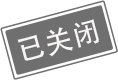
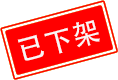
update

diff --git a/pages/myself/myself.js b/pages/myself/myself.js
@@ -12,11 +12,13 @@ Page({
     totalPrice: 0,
     totalGoods: '',
     publish: '',
+    totalReview: '',
     saled: '',
     nickName: '',
     avatarUrl: '',
-    tabIndex: 0,
+    tabIndex: 10,
     height: '',
+    status: '',
   },
 
   /**
@@ -27,10 +29,17 @@ Page({
 
     const containerHeight = await this.getHeight('#container');
     const wrapHeight = await this.getHeight('#wrap');
-    console.log(containerHeight, wrapHeight);
+
     this.setData({
       height: containerHeight - wrapHeight,
     });
+
+    const { status } = options;
+    if (status) {
+      this.setData({
+        status: status,
+      });
+    }
   },
 
   getHeight: function(id) {
@@ -52,7 +61,7 @@ Page({
   /**
    * 生命周期函数--监听页面显示
    */
-  onShow: function() {
+  onShow: async function() {
     // 已登录，直接获取数据
     if (app.globalData.hasLogined) {
       const { nickName, avatarUrl, gender } = app.globalData.userInfo;
@@ -61,11 +70,17 @@ Page({
         avatarUrl: avatarUrl,
         gender: gender,
         hasLogined: app.globalData.hasLogined,
-        tabIndex: 0,
+        tabIndex: 10,
       });
 
-      this.getData();
-      return;
+      await this.getData();
+
+      // 发布页跳转过来，需显示待审核列表面
+      if (this.data.status) {
+        this.changeTab({
+          currentTarget: { dataset: { status: 0 } },
+        });
+      }
     }
   },
 
@@ -166,38 +181,48 @@ Page({
     const list = [].concat(this.data.totalList);
 
     this.setData({
-      list: status === 0 ? list : list.filter(item => item.status === status),
+      list: status === 10 ? list : list.filter(item => item.status === status),
       tabIndex: Number(status),
     });
   },
   // 获取数据
   getData() {
     wx.showLoading();
-    util.request
+    return util.request
       .post('/koa-api/product/productByUser', { status: 0, ownerId: JSON.parse(wx.getStorageSync('token')).userId })
       .then(data => {
         if (data.length) {
+          let totalReview = 0;
           let totalPrice = 0;
           let publish = 0;
           let saled = 0;
           data.forEach(item => {
             item.img_list = item.img_list && item.img_list.split(',')[0];
 
+            // 待审核的
+            if (item.status === 0) {
+              totalReview += 1;
+              return;
+            }
+
             // 发布的
             if (item.status === 1) {
               publish += 1;
+              return;
             }
 
             // 卖出的
             if (item.status === 2) {
               saled += 1;
               totalPrice += item.price;
+              return;
             }
           });
           this.setData({
             list: data,
             totalList: data,
             totalPrice: totalPrice,
+            totalReview: totalReview,
             totalGoods: data.length,
             publish: publish || '',
             saled: saled || '',

diff --git a/pages/publish/publish.js b/pages/publish/publish.js
@@ -19,7 +19,7 @@ Page({
     isEditPage: false,
     cateIdRange: [],
     cateIdIndex: 0,
-    statusRange: [{ id: 1, name: '发布' }, { id: 2, name: '已卖出' }, { id: 3, name: '关闭' }],
+    statusRange: [{ id: 1, name: '发布' }, { id: 2, name: '已卖出' }, { id: 3, name: '下架' }],
     status: 1,
     statusIndex: 0,
     oldImgList: [],
@@ -445,15 +445,20 @@ Page({
 
       util.request.post('/koa-api/product/update', params).then(
         async data => {
-          wx.showToast({
-            title: `修改商品成功`,
-            icon: 'none',
-            duration: 1000,
-          });
-          // 2秒后跳转到个人页
-          await util.sleep(1000);
-          wx.switchTab({
-            url: `/pages/myself/myself`,
+          wx.hideLoading();
+          wx.showModal({
+            title: '提示',
+            showCancel: false,
+            content: '修改商品成功，点击确定进入待审核列表',
+            success(res) {
+              if (res.confirm) {
+                wx.reLaunch({
+                  url: `/pages/myself/myself?status=0`,
+                });
+              } else if (res.cancel) {
+                console.log('用户点击取消');
+              }
+            },
           });
         },
         error => {
@@ -467,17 +472,20 @@ Page({
 
     util.request.post('/koa-api/product/add', params).then(
       async data => {
-        wx.showToast({
-          title: `添加商品成功`,
-          icon: 'none',
-          duration: 1000,
-          mask: true,
-        });
-
-        // 2秒后跳转到个人页
-        await util.sleep(1000);
-        wx.switchTab({
-          url: `/pages/myself/myself`,
+        wx.hideLoading();
+        wx.showModal({
+          title: '提示',
+          showCancel: false,
+          content: '添加商品成功，点击确定进入待审核列表',
+          success(res) {
+            if (res.confirm) {
+              wx.reLaunch({
+                url: `/pages/myself/myself?status=0`,
+              });
+            } else if (res.cancel) {
+              console.log('用户点击取消');
+            }
+          },
         });
       },
       error => {
